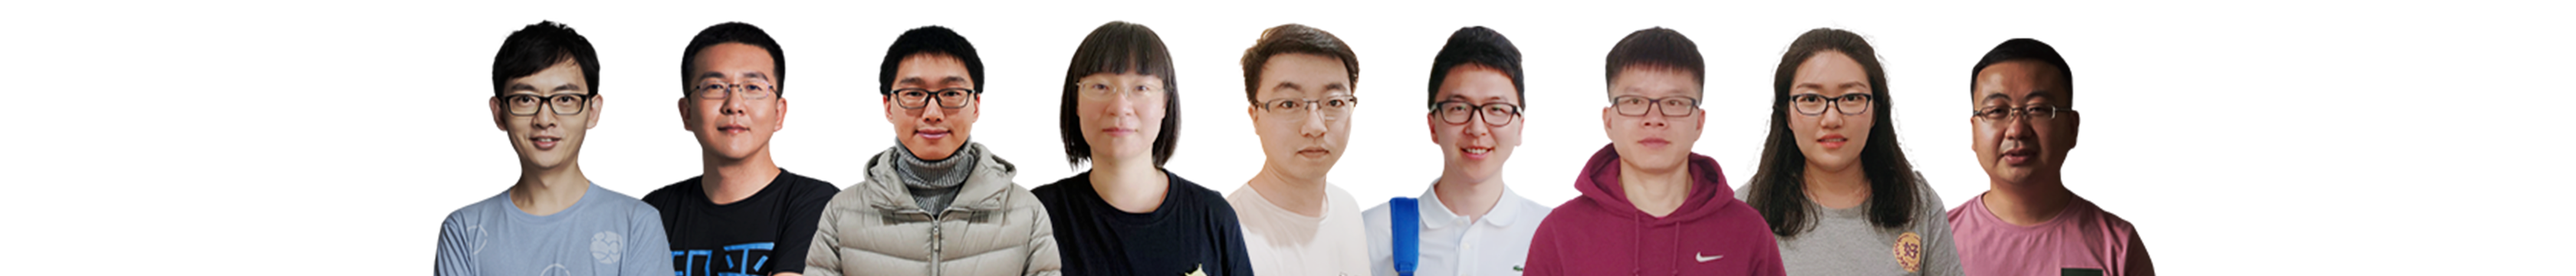
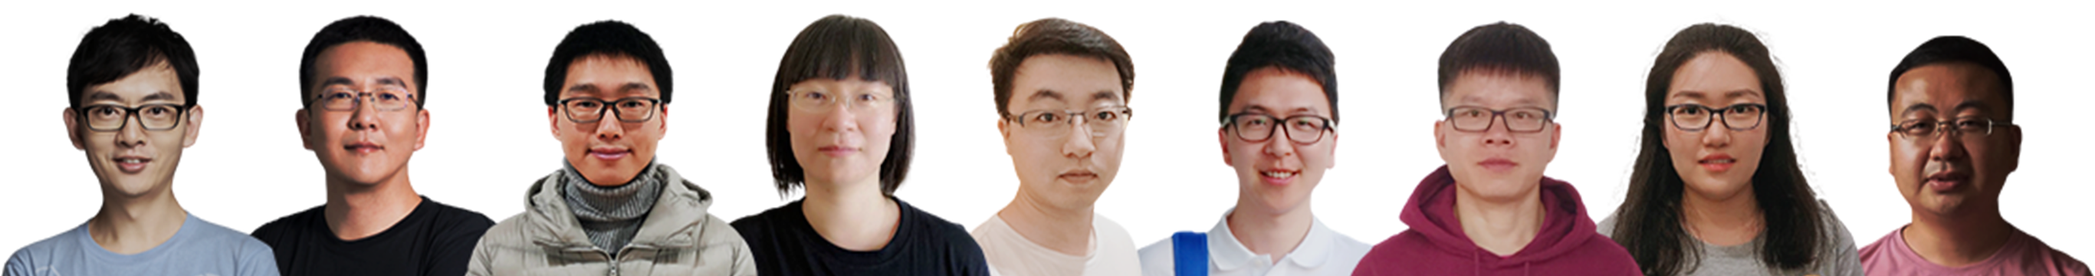
update HomeMVA image and style

diff --git a/components/home/HomeMVA/HomeMVA.module.scss b/components/home/HomeMVA/HomeMVA.module.scss
@@ -31,8 +31,9 @@
 
 .image {
   margin-top: 6rem;
+  text-align: center;
   img {
-    width: 100%;
+    width: 90%;
   }
 }
 
